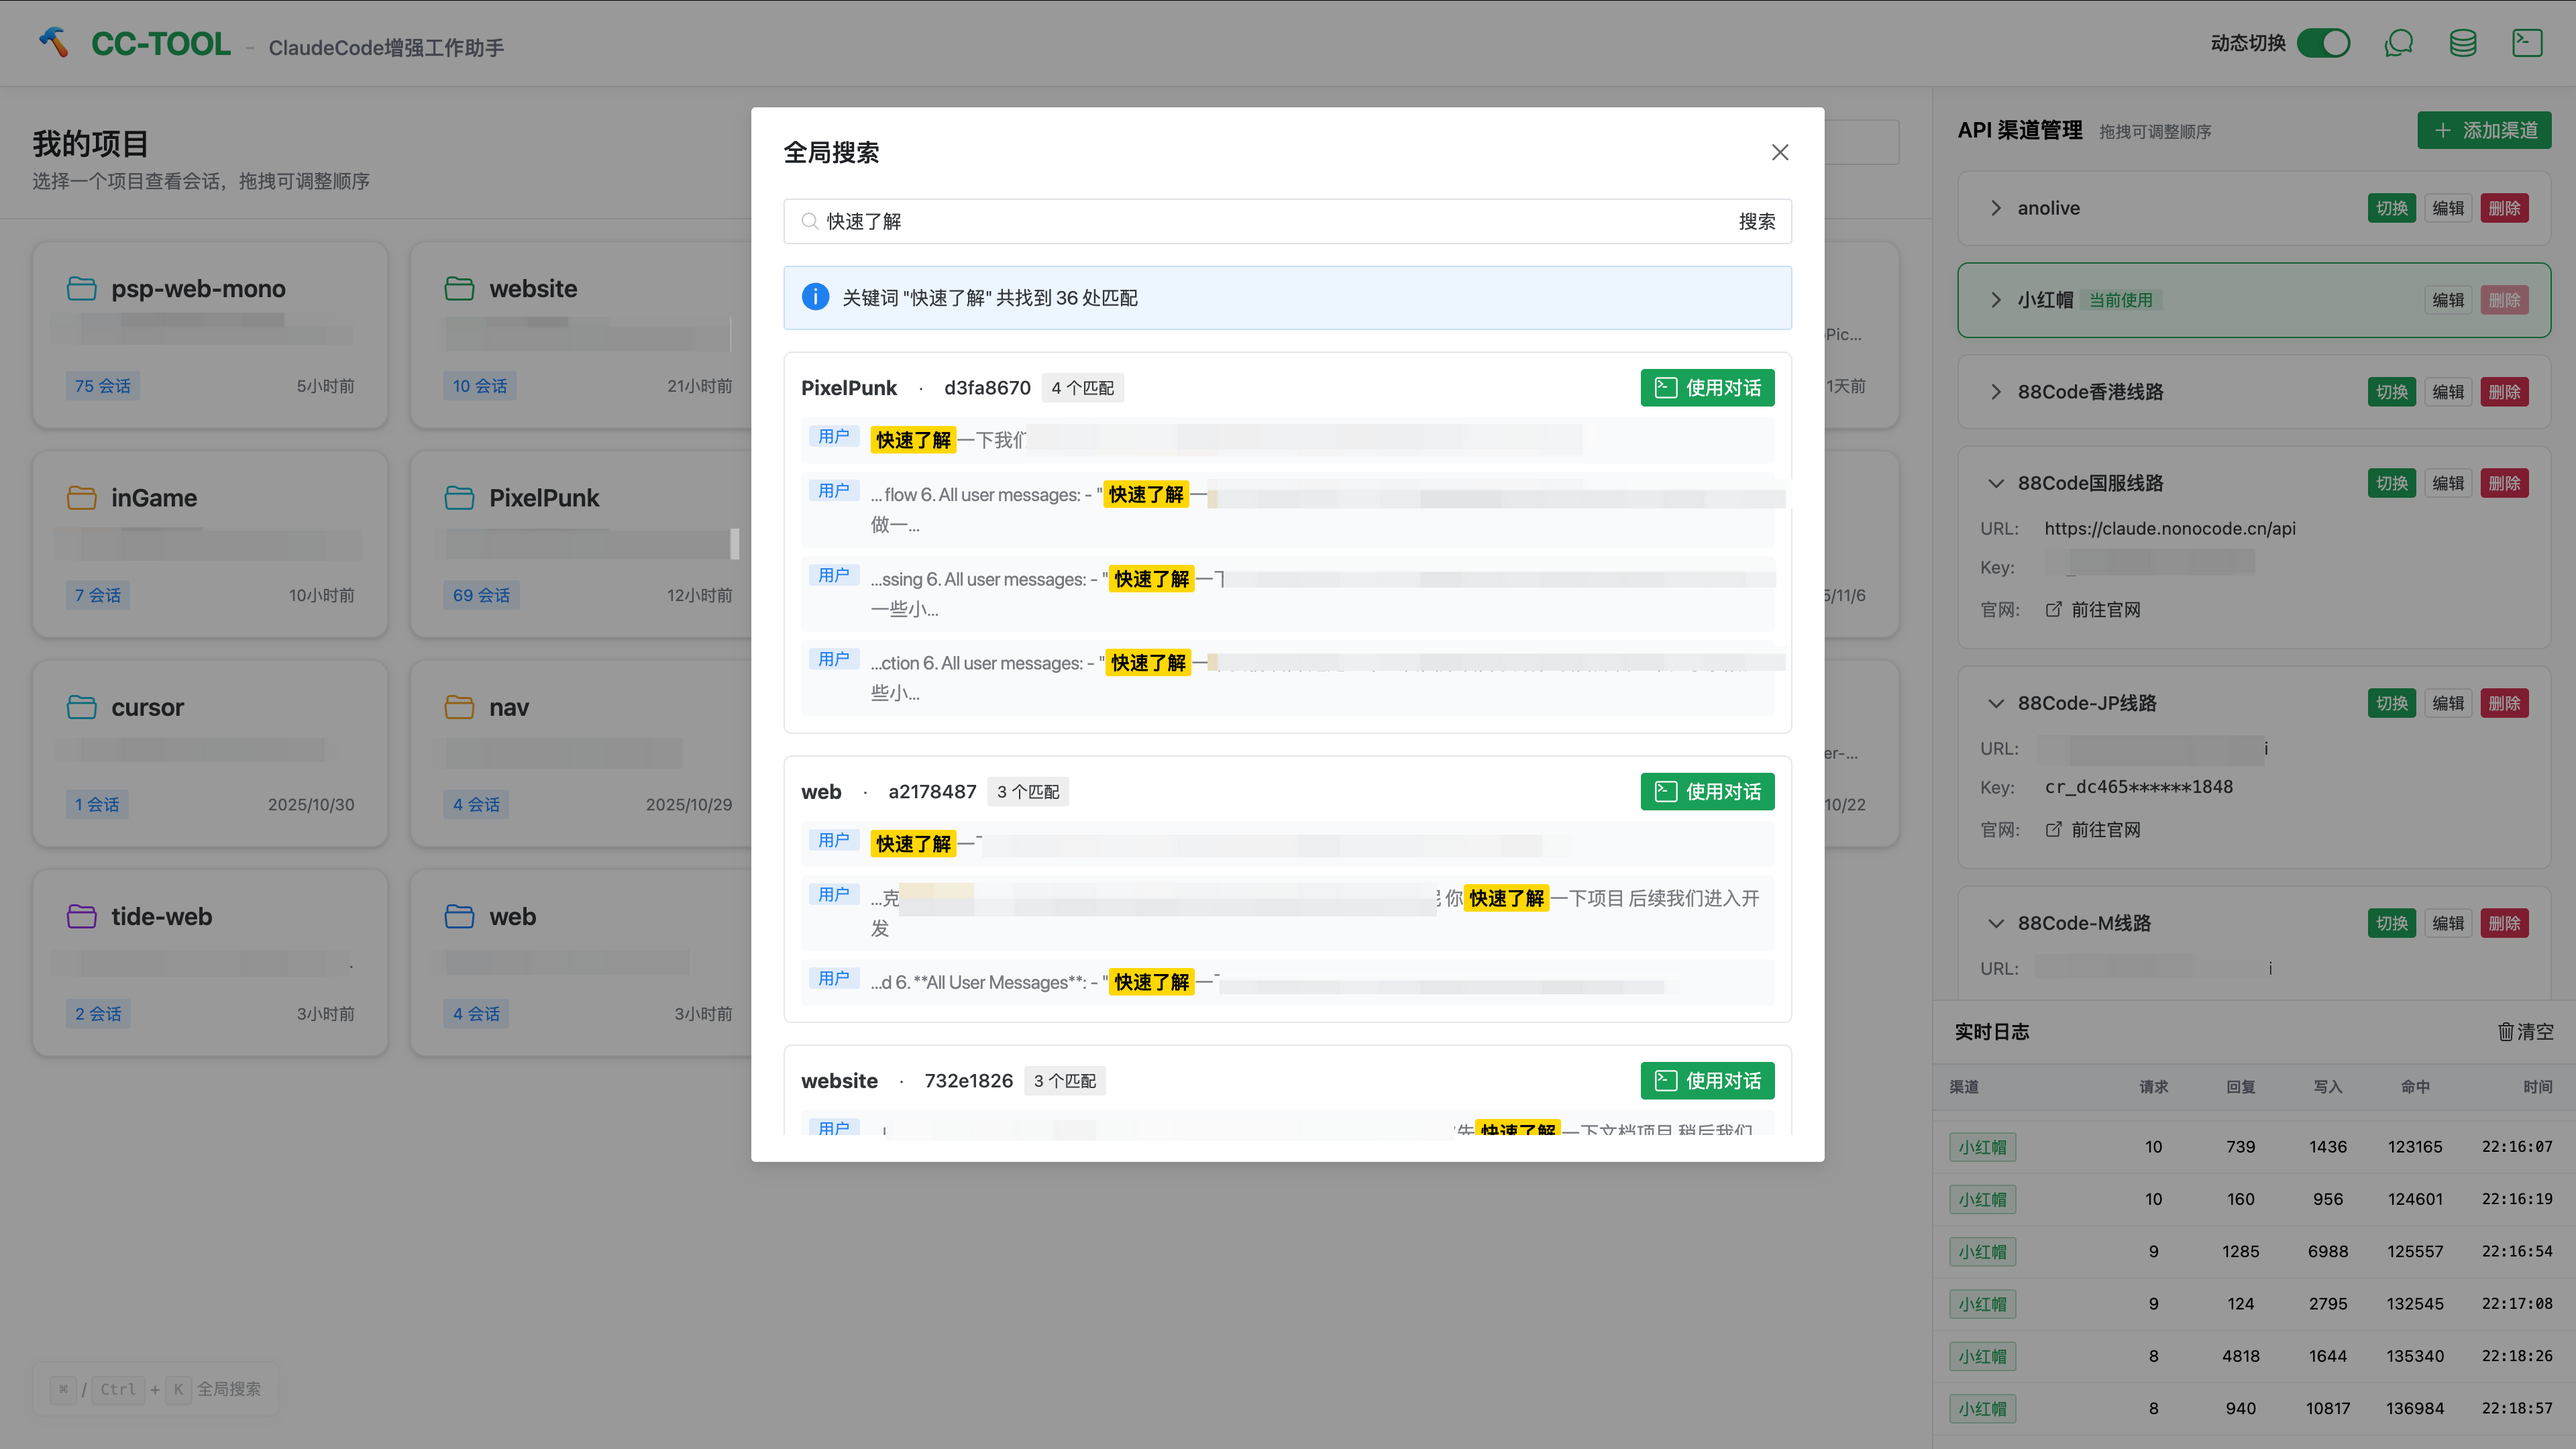
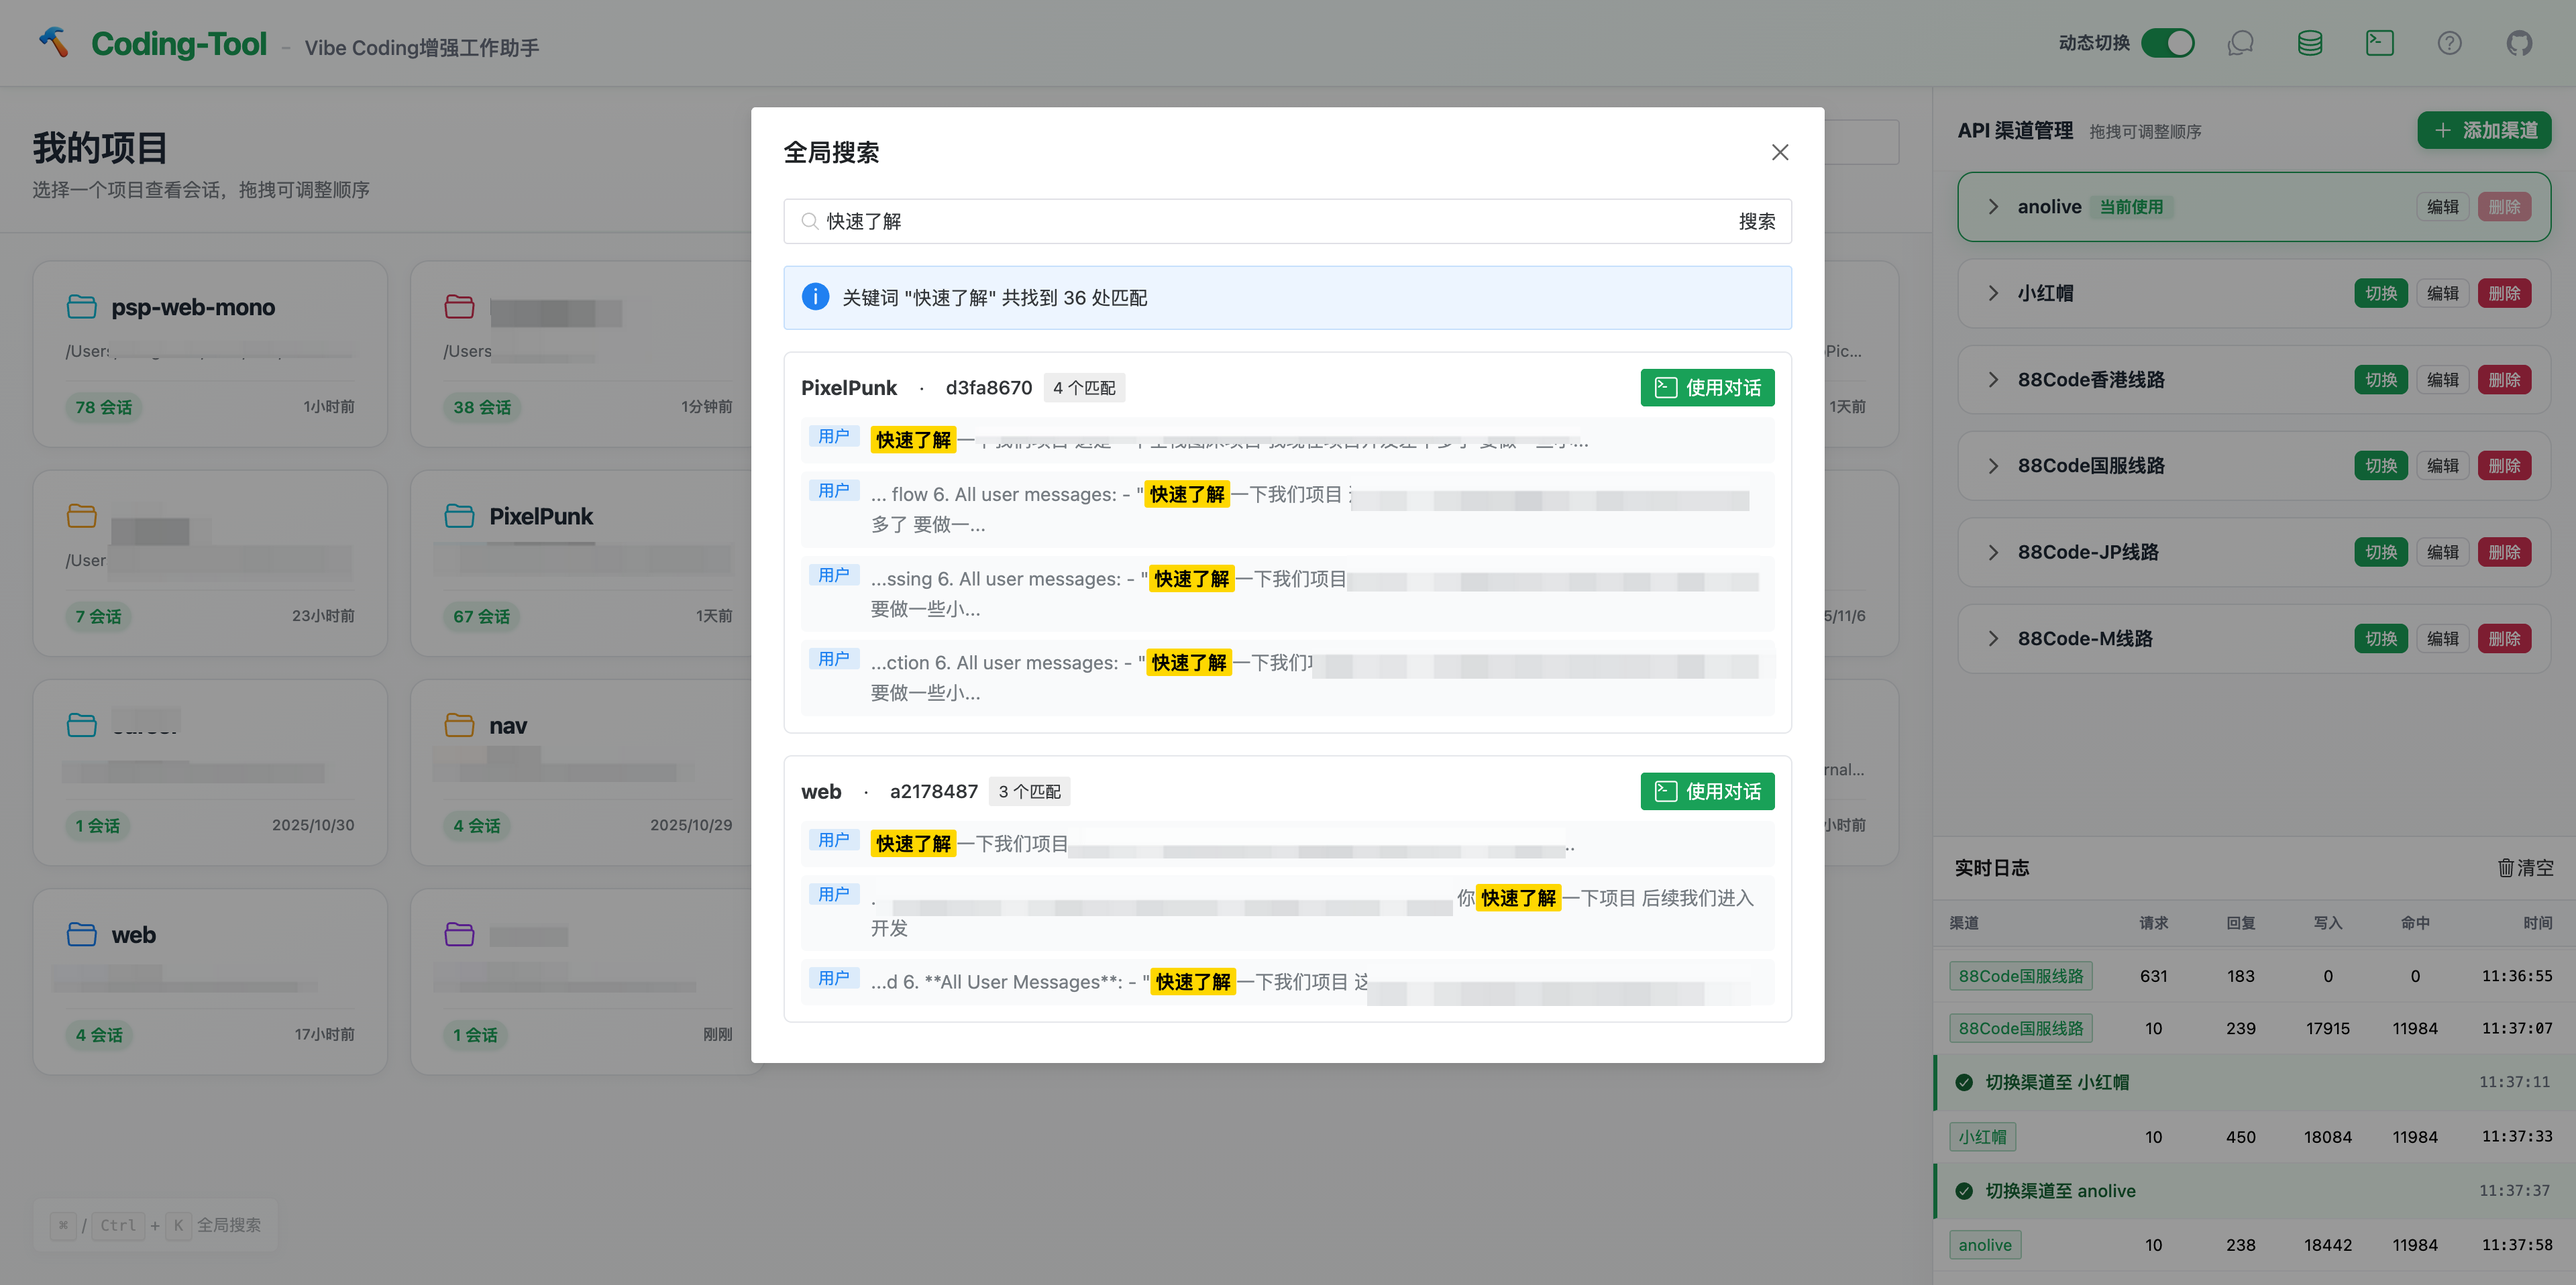
fix: docs

diff --git a/src/web/src/components/ProxyLogs.vue b/src/web/src/components/ProxyLogs.vue
@@ -92,10 +92,34 @@ let ws = null
 let isInitialConnection = true // 标记是否是初次连接
 let reconnectAttempts = 0 // 重连尝试次数
 const MAX_RECONNECT_ATTEMPTS = 3 // 最大重连次数
+let reconnectTimer = null // 重连定时器
+let isConnecting = false // 是否正在连接中
 
 // 连接 WebSocket
 function connectWebSocket() {
+  // 避免重复连接
+  if (isConnecting || (ws && ws.readyState === WebSocket.CONNECTING)) {
+    return
+  }
+
+  // 如果已有连接且是打开状态，直接返回
+  if (ws && ws.readyState === WebSocket.OPEN) {
+    return
+  }
+
+  // 如果已有连接但未完全关闭，先关闭
+  if (ws && ws.readyState !== WebSocket.CLOSED) {
+    try {
+      ws.close()
+    } catch (err) {
+      // 忽略关闭错误
+    }
+    ws = null
+  }
+
   try {
+    isConnecting = true
+
     // 根据当前环境构建 WebSocket URL
     const protocol = window.location.protocol === 'https:' ? 'wss:' : 'ws:'
     const host = window.location.host
@@ -105,6 +129,7 @@ function connectWebSocket() {
 
     ws.onopen = () => {
       wsConnected.value = true
+      isConnecting = false
       reconnectAttempts = 0 // 重置重连次数
 
       // 初次连接时清空日志，准备接收历史日志
@@ -154,10 +179,18 @@ function connectWebSocket() {
     ws.onerror = (error) => {
       // 不要打印错误，避免控制台刷屏
       wsConnected.value = false
+      isConnecting = false
     }
 
     ws.onclose = () => {
       wsConnected.value = false
+      isConnecting = false
+
+      // 清除之前的重连定时器
+      if (reconnectTimer) {
+        clearTimeout(reconnectTimer)
+        reconnectTimer = null
+      }
 
       // 限制重连次数，避免无限重连
       if (reconnectAttempts < MAX_RECONNECT_ATTEMPTS) {
@@ -165,7 +198,7 @@ function connectWebSocket() {
 
         // 延迟重连，时间递增（5秒、10秒、15秒）
         const delay = reconnectAttempts * 5000
-        setTimeout(() => {
+        reconnectTimer = setTimeout(() => {
           if (!wsConnected.value) {
             connectWebSocket()
           }
@@ -174,6 +207,8 @@ function connectWebSocket() {
     }
   } catch (err) {
     console.error('Failed to connect WebSocket:', err)
+    isConnecting = false
+    wsConnected.value = false
   }
 }
 
@@ -201,9 +236,21 @@ onMounted(() => {
 })
 
 onUnmounted(() => {
+  // 清除重连定时器
+  if (reconnectTimer) {
+    clearTimeout(reconnectTimer)
+    reconnectTimer = null
+  }
+
+  // 关闭 WebSocket 连接
   if (ws) {
     ws.close()
+    ws = null
   }
+
+  // 重置状态
+  isConnecting = false
+  wsConnected.value = false
 })
 
 // 暴露给父组件

diff --git a/src/server/index.js b/src/server/index.js
@@ -1,15 +1,68 @@
 const express = require('express');
 const path = require('path');
 const chalk = require('chalk');
+const inquirer = require('inquirer');
 const { loadConfig } = require('../config/loader');
 const { startWebSocketServer: attachWebSocketServer } = require('./websocket-server');
+const { isPortInUse, killProcessByPort, waitForPortRelease } = require('../utils/port-helper');
 
-function startServer(port) {
+async function startServer(port) {
   const config = loadConfig();
   // 使用配置的端口，如果没有传入参数
   if (!port) {
     port = config.ports?.webUI || 10099;
   }
+
+  // 检查端口是否被占用
+  const portInUse = await isPortInUse(port);
+  if (portInUse) {
+    console.log(chalk.yellow(`\n⚠  端口 ${port} 已被占用\n`));
+
+    // 询问用户是否关闭占用端口的进程
+    const { shouldKill } = await inquirer.prompt([
+      {
+        type: 'list',
+        name: 'shouldKill',
+        message: '是否关闭占用该端口的进程并启动服务？',
+        choices: [
+          { name: '是，关闭进程并启动', value: true },
+          { name: '否，取消启动', value: false }
+        ],
+        default: 0 // 默认选择"是"
+      }
+    ]);
+
+    if (!shouldKill) {
+      console.log(chalk.gray('\n已取消启动'));
+      console.log(chalk.yellow('\n💡 解决方案:'));
+      console.log(chalk.gray('   1. 运行 ct 命令，选择"配置端口"修改端口'));
+      console.log(chalk.gray(`   2. 或手动关闭占用端口 ${port} 的程序\n`));
+      process.exit(0);
+    }
+
+    // 尝试杀掉占用端口的进程
+    console.log(chalk.cyan('正在关闭占用端口的进程...'));
+    const killed = killProcessByPort(port);
+
+    if (!killed) {
+      console.error(chalk.red('\n❌ 无法关闭占用端口的进程'));
+      console.error(chalk.yellow('\n💡 请手动关闭占用端口的程序，或使用其他端口\n'));
+      process.exit(1);
+    }
+
+    // 等待端口释放
+    console.log(chalk.cyan('等待端口释放...'));
+    const released = await waitForPortRelease(port);
+
+    if (!released) {
+      console.error(chalk.red('\n❌ 端口释放超时'));
+      console.error(chalk.yellow('\n💡 请稍后重试，或手动检查端口占用情况\n'));
+      process.exit(1);
+    }
+
+    console.log(chalk.green('✓ 端口已释放\n'));
+  }
+
   const app = express();
 
   // Middleware

diff --git a/src/utils/port-helper.js b/src/utils/port-helper.js
@@ -1,0 +1,94 @@
+const { execSync } = require('child_process');
+const net = require('net');
+
+/**
+ * 检查端口是否被占用
+ */
+function isPortInUse(port) {
+  return new Promise((resolve) => {
+    const server = net.createServer();
+
+    server.once('error', (err) => {
+      if (err.code === 'EADDRINUSE') {
+        resolve(true);
+      } else {
+        resolve(false);
+      }
+    });
+
+    server.once('listening', () => {
+      server.close();
+      resolve(false);
+    });
+
+    server.listen(port);
+  });
+}
+
+/**
+ * 查找占用端口的进程PID
+ */
+function findProcessByPort(port) {
+  try {
+    // macOS/Linux 使用 lsof
+    const result = execSync(`lsof -ti :${port}`, { encoding: 'utf-8' }).trim();
+    return result.split('\n').filter(pid => pid);
+  } catch (err) {
+    // 如果 lsof 失败，尝试使用其他命令
+    try {
+      // 适用于某些 Linux 系统
+      const result = execSync(`fuser ${port}/tcp 2>/dev/null`, { encoding: 'utf-8' }).trim();
+      return result.split(/\s+/).filter(pid => pid);
+    } catch (e) {
+      return [];
+    }
+  }
+}
+
+/**
+ * 杀掉占用端口的进程
+ */
+function killProcessByPort(port) {
+  try {
+    const pids = findProcessByPort(port);
+    if (pids.length === 0) {
+      return false;
+    }
+
+    pids.forEach(pid => {
+      try {
+        execSync(`kill -9 ${pid}`, { stdio: 'ignore' });
+      } catch (err) {
+        // 忽略单个进程杀掉失败的错误
+      }
+    });
+
+    return true;
+  } catch (err) {
+    return false;
+  }
+}
+
+/**
+ * 等待端口释放
+ */
+async function waitForPortRelease(port, timeout = 3000) {
+  const startTime = Date.now();
+
+  while (Date.now() - startTime < timeout) {
+    const inUse = await isPortInUse(port);
+    if (!inUse) {
+      return true;
+    }
+    await new Promise(resolve => setTimeout(resolve, 100));
+  }
+
+  return false;
+}
+
+module.exports = {
+  isPortInUse,
+  findProcessByPort,
+  killProcessByPort,
+  waitForPortRelease
+};

diff --git a/src/server/dev-server.js b/src/server/dev-server.js
@@ -15,10 +15,12 @@ const port = config.ports?.webUI || 10099;
 
 console.log(chalk.cyan('\n🔧 开发模式：启动后端 API 服务器...\n'));
 
-startServer(port);
+(async () => {
+  await startServer(port);
 
-console.log(chalk.yellow('💡 开发提示：'));
-console.log(chalk.gray(`   - 后端 API: http://localhost:${port}/api`));
-console.log(chalk.gray('   - 前端开发服务器: http://localhost:3000'));
-console.log(chalk.gray('   - 修改后端代码会自动重启 (nodemon)'));
-console.log(chalk.gray('   - 按 Ctrl+C 停止服务器\n'));
+  console.log(chalk.yellow('💡 开发提示：'));
+  console.log(chalk.gray(`   - 后端 API: http://localhost:${port}/api`));
+  console.log(chalk.gray('   - 前端开发服务器: http://localhost:3000'));
+  console.log(chalk.gray('   - 修改后端代码会自动重启 (nodemon)'));
+  console.log(chalk.gray('   - 按 Ctrl+C 停止服务器\n'));
+})();

diff --git a/src/server/proxy-server.js b/src/server/proxy-server.js
@@ -4,7 +4,7 @@ const http = require('http');
 const net = require('net');
 const chalk = require('chalk');
 const { getActiveChannel } = require('./services/channels');
-const { startWebSocketServer, stopWebSocketServer, broadcastLog } = require('./websocket-server');
+const { broadcastLog } = require('./websocket-server');
 const { loadConfig } = require('../config/loader');
 
 let proxyServer = null;
@@ -247,8 +247,9 @@ async function stopProxyServer() {
     return { success: true, message: 'Proxy server not running' };
   }
 
-  // 停止 WebSocket 服务器
-  stopWebSocketServer();
+  // 注意：不要停止 WebSocket 服务器！
+  // WebSocket 服务器附加到 Web UI 的 HTTP 服务器上，
+  // 应该始终保持运行，直到 Web UI 停止
 
   // 清理请求元数据
   requestMetadata.clear();

diff --git a/src/web/src/App.vue b/src/web/src/App.vue
@@ -28,4 +28,29 @@ body {
 #app {
   min-height: 100vh;
 }
+
+/* 全局滚动条样式 */
+* {
+  scrollbar-width: thin;
+  scrollbar-color: rgba(24, 160, 88, 0.2) transparent;
+}
+
+*::-webkit-scrollbar {
+  width: 6px;
+  height: 6px;
+}
+
+*::-webkit-scrollbar-track {
+  background: transparent;
+}
+
+*::-webkit-scrollbar-thumb {
+  background-color: rgba(24, 160, 88, 0.2);
+  border-radius: 3px;
+  transition: background-color 0.2s ease;
+}
+
+*::-webkit-scrollbar-thumb:hover {
+  background-color: rgba(24, 160, 88, 0.35);
+}
 </style>

diff --git a/src/web/src/components/Layout.vue b/src/web/src/components/Layout.vue
@@ -5,7 +5,7 @@
       <div class="logo-section" @click="goHome">
         <img src="/logo.png" alt="Coding Tool Logo" class="logo-image" />
         <div class="title-group">
-          <h1 class="title-main">CODING-TOOL</h1>
+          <h1 class="title-main">Coding-Tool</h1>
           <span class="title-divider">-</span>
           <span class="title-sub">Vibe Coding增强工作助手</span>
         </div>

diff --git a/src/commands/ui.js b/src/commands/ui.js
@@ -14,7 +14,7 @@ async function handleUI() {
   const url = `http://localhost:${port}`;
 
   try {
-    startServer(port);
+    await startServer(port);
 
     // 自动打开浏览器
     setTimeout(async () => {

diff --git a/README.md b/README.md
@@ -8,7 +8,7 @@
   [![npm version](https://img.shields.io/npm/v/coding-tool.svg)](https://www.npmjs.com/package/coding-tool)
   [![License](https://img.shields.io/badge/license-MIT-green.svg)](LICENSE)
 
-  <img src="docs/cc-tool.png" alt="CODING-TOOL Screenshot" width="90%" />
+  <img src="docs/bannel.png" alt="CODING-TOOL Banner" width="90%" />
 </div>
 
 ---
@@ -62,6 +62,13 @@ ct ui
 - 🔀 动态切换 API 渠道
 - 📊 实时查看 API 请求日志和 Token 消耗
 - 🎨 拖拽排序、自定义命名
+
+**Web UI 界面预览：**
+
+<div align="center">
+  <img src="docs/cc-tool.png" alt="Web UI 界面截图" width="90%" />
+  <p><i>现代化 Web 界面 - 项目与会话管理、实时日志监控</i></p>
+</div>
 
 ### 命令行模式
 
